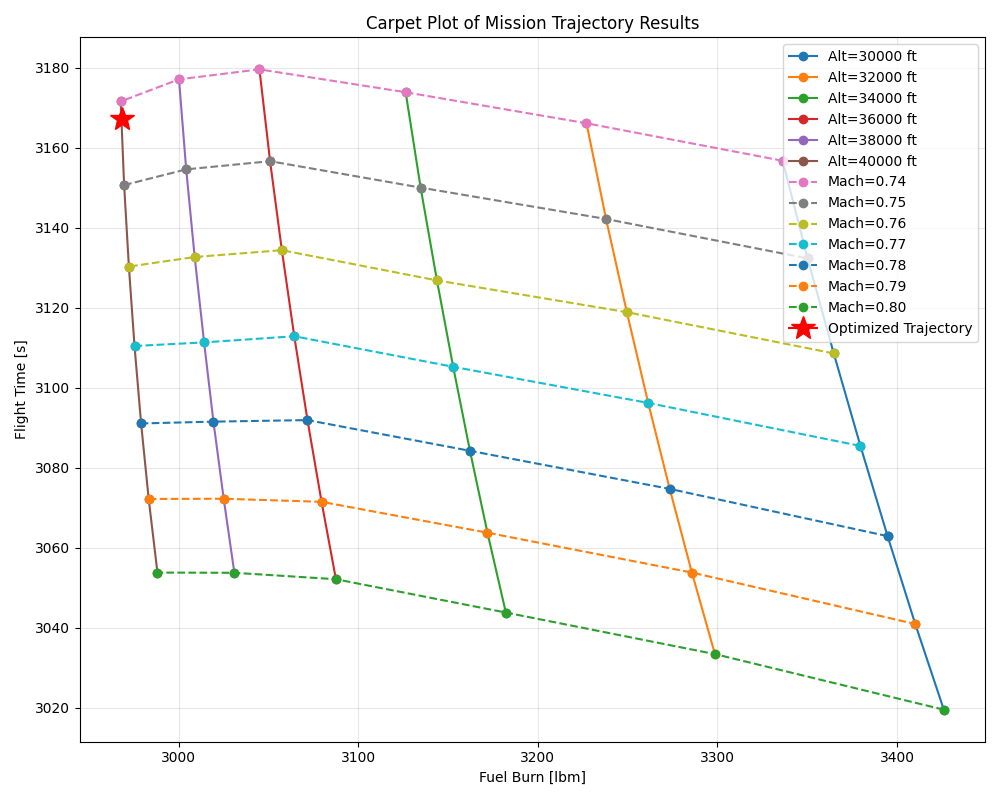
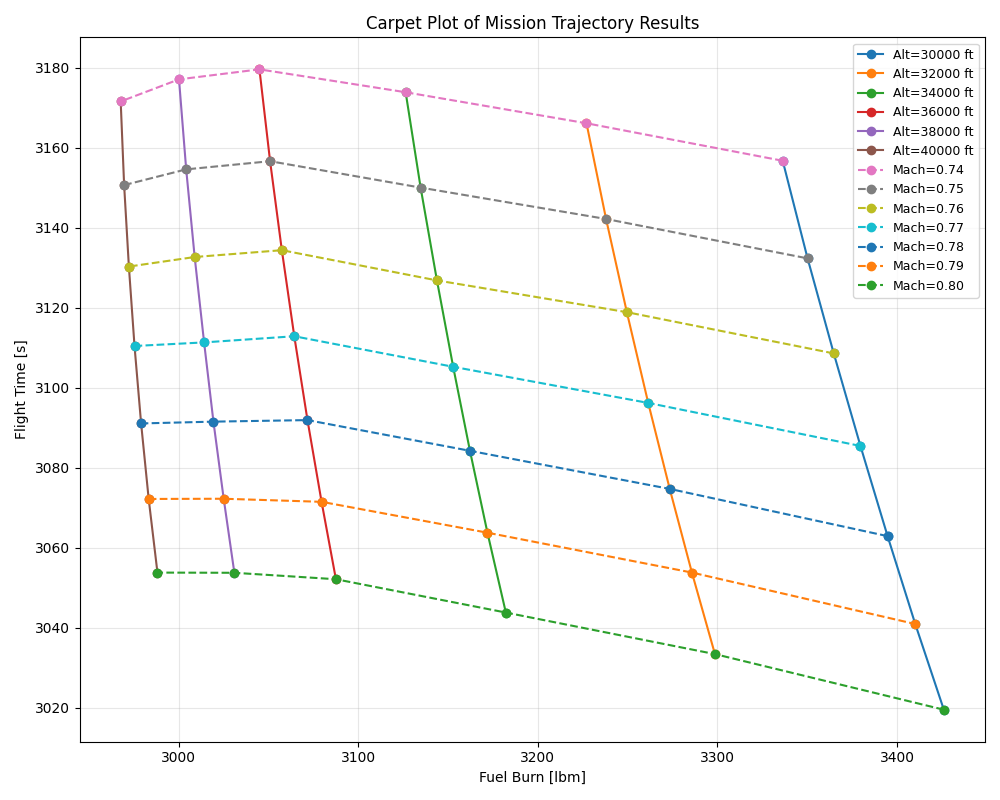
Last round of carpet plot rerun

Changed region(s): [[0.775, 0.0625, 0.992, 0.4375], [0.093, 0.125, 0.155, 0.1562]]

diff --git a/carpet_plot_generator.py b/carpet_plot_generator.py
@@ -40,8 +40,8 @@ handles, labels = plt.gca().get_legend_handles_labels()
 by_label = dict(zip(labels, handles))
 plt.legend(by_label.values(), by_label.keys(), fontsize=9, loc="best")
 
-plt.plot(FB_star, FT_star, marker="*", markersize=18, color="red", label="Optimized Trajectory")
-plt.legend()
+# plt.plot(FB_star, FT_star, marker="*", markersize=18, color="red", label="Optimized Trajectory")
+# plt.legend()
 
 plt.grid(True, alpha=0.3)
 plt.tight_layout()
@@ -60,7 +60,7 @@ pivot = df.pivot_table(
 
 
 plt.figure(figsize=(10, 8))
-im = plt.imshow(pivot, aspect="auto", origin="lower")
+im = plt.imshow(pivot, aspect="auto", origin="lower", cmap="viridis_r")
 
 # Label ticks using actual alt & mach values
 plt.xticks(
